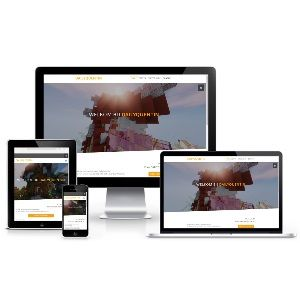
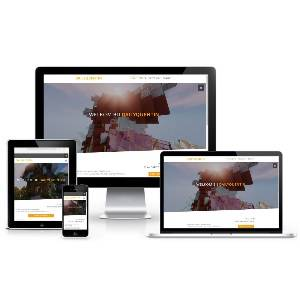
create github pages

diff --git a/index.html b/index.html
@@ -24,7 +24,7 @@
   
 </head>
 <body>
-<section class="menu cid-qzXxz988dB" once="menu" id="menu1-1" data-rv-view="52">
+<section class="menu cid-qzXxz988dB" once="menu" id="menu1-1" data-rv-view="26">
 
     
 
@@ -60,20 +60,20 @@
     </nav>
 </section>
 
-<section class="engine"><a href="https://mobirise.co/o">bootstrap buttons</a></section><section class="header1 cid-qzXxSGDLv6 mbr-parallax-background" id="header1-2" data-rv-view="54">
+<section class="engine"><a href="https://mobirise.co/q">bootstrap slideshow</a></section><section class="header1 cid-qzXxSGDLv6 mbr-parallax-background" id="header1-2" data-rv-view="28">
 
     
 
-    
+    <div class="mbr-overlay" style="opacity: 0.1; background-color: rgb(0, 0, 0);">
+    </div>
 
     <div class="container">
         <div class="row justify-content-md-center">
             <div class="mbr-white col-md-10">
                 
                 <h3 class="mbr-section-subtitle align-center mbr-light pb-3 mbr-fonts-style display-2">
-                    <br><strong>Website laten maken?</strong></h3>
-                <p class="mbr-text align-center pb-3 mbr-fonts-style display-5">
-                    Voor een lage prijs de beste websites en mooiste designs
+                    <br><strong>Website laten maken?</strong><br></h3>
+                <p class="mbr-text align-center pb-3 mbr-fonts-style display-5">Voor een lage prijs de beste websites en mooiste designs
                 </p>
                 
             </div>
@@ -82,7 +82,7 @@
 
 </section>
 
-<section class="features6 cid-qzXzWFSnQD" id="features6-6" data-rv-view="57">
+<section class="features6 cid-qzXzWFSnQD" id="features6-6" data-rv-view="31">
     
     
 
@@ -134,7 +134,7 @@
 
 </section>
 
-<section class="progress-bars3 cid-qzXC435ATP mbr-parallax-background" id="progress-bars3-7" data-rv-view="60">
+<section class="progress-bars3 cid-qzXC435ATP mbr-parallax-background" id="progress-bars3-7" data-rv-view="34">
  
      
 
@@ -171,7 +171,7 @@
         </div>
 </div></section>
 
-<section class="testimonials1 cid-qzXDlUaDKS" id="testimonials1-8" data-rv-view="63">
+<section class="testimonials1 cid-qzXDlUaDKS" id="testimonials1-8" data-rv-view="37">
 
     
 
@@ -244,7 +244,7 @@
     </div>   
 </section>
 
-<section class="features15 cid-qzXHOCJWfV" id="features15-c" data-rv-view="66">
+<section class="features15 cid-qA2FhbDjH5" id="features15-17" data-rv-view="40">
 
     
 
@@ -276,7 +276,7 @@
                     </div>
                     <div class="card_back card_cont">
                         <h4 class="card-title py-2 mbr-fonts-style display-5">
-                            Hotel Krimpen</h4>
+                            Hotel krimpen</h4>
                         
                     </div>
                 </div>
@@ -288,7 +288,8 @@
                         <img src="assets/images/vlamings-300x300.jpg" alt="Mobirise" title="" media-simple="true">
                     </div>
                     <div class="card_back card_cont">
-                        <h4 class="card-title py-2 mbr-fonts-style display-5">Vlamings acupunctuur</h4>
+                        <h4 class="card-title py-2 mbr-fonts-style display-5">
+                            Vlamings Acupunctuur</h4>
                         
                     </div>
                 </div> 
@@ -298,7 +299,7 @@
         </div>
 </div></section>
 
-<section class="mbr-section content4 cid-qzXN603ZjA" id="content4-i" data-rv-view="69">
+<section class="mbr-section content4 cid-qzXN603ZjA" id="content4-i" data-rv-view="43">
 
     
 
@@ -314,7 +315,7 @@
     </div>
 </section>
 
-<section class="mbr-section article content3 cid-qzXOtimRfO" id="content3-l" data-rv-view="71">
+<section class="mbr-section article content3 cid-qzXOtimRfO" id="content3-l" data-rv-view="45">
       
      
 
@@ -342,7 +343,7 @@
     </div>
 </section>
 
-<section class="cid-qzXQTTe66U mbr-fullscreen mbr-parallax-background" id="header15-r" data-rv-view="72">
+<section class="cid-qzXQTTe66U mbr-fullscreen mbr-parallax-background" id="header15-r" data-rv-view="46">
 
     
 
@@ -359,7 +360,7 @@
     <div class="form-container">
         <div class="media-container-column" data-form-type="formoid">
             <div data-form-alert="" hidden="" class="align-center">Succesvol verzonden!</div>
[2 lines of base64/hex data omitted]
                 <div data-for="name">
                     <div class="form-group">
                         <input type="text" class="form-control px-3" name="name" data-form-field="Name" placeholder="Uw voor- en achternaam*" required="" id="name-header15-r">
@@ -388,7 +389,7 @@
     
 </section>
 
-<section class="cid-qzXSqObuYe mbr-reveal" id="footer1-t" data-rv-view="75">
+<section class="cid-qzXSqObuYe mbr-reveal" id="footer1-t" data-rv-view="49">
 
     
 

diff --git a/assets/mobirise/css/mbr-additional.css b/assets/mobirise/css/mbr-additional.css
@@ -165,8 +165,8 @@ body {
 }
 .btn-secondary,
 .btn-secondary:active {
-  background-color: #ff3366;
-  border-color: #ff3366;
+  background-color: #e7ff6e;
+  border-color: #e7ff6e;
   color: #ffffff;
 }
 .btn-secondary:hover,
@@ -174,14 +174,14 @@ body {
 .btn-secondary.focus,
 .btn-secondary.active {
   color: #ffffff;
-  background-color: #e50039;
-  border-color: #e50039;
+  background-color: #daff21;
+  border-color: #daff21;
 }
 .btn-secondary.disabled,
 .btn-secondary:disabled {
   color: #ffffff !important;
-  background-color: #e50039 !important;
-  border-color: #e50039 !important;
+  background-color: #daff21 !important;
+  border-color: #daff21 !important;
 }
 .btn-info,
 .btn-info:active {
@@ -329,22 +329,22 @@ body {
 .btn-secondary-outline,
 .btn-secondary-outline:active {
   background: none;
-  border-color: #cc0033;
-  color: #cc0033;
+  border-color: #d6ff08;
+  color: #d6ff08;
 }
 .btn-secondary-outline:hover,
 .btn-secondary-outline:focus,
 .btn-secondary-outline.focus,
 .btn-secondary-outline.active {
   color: #ffffff;
-  background-color: #ff3366;
-  border-color: #ff3366;
+  background-color: #e7ff6e;
+  border-color: #e7ff6e;
 }
 .btn-secondary-outline.disabled,
 .btn-secondary-outline:disabled {
   color: #ffffff !important;
-  background-color: #ff3366 !important;
-  border-color: #ff3366 !important;
+  background-color: #e7ff6e !important;
+  border-color: #e7ff6e !important;
 }
 .btn-info-outline,
 .btn-info-outline:active {
@@ -464,7 +464,7 @@ body {
   color: #149dcc !important;
 }
 .text-secondary {
-  color: #ff3366 !important;
+  color: #e7ff6e !important;
 }
 .text-success {
   color: #f7ed4a !important;
@@ -490,7 +490,7 @@ a.text-primary:focus {
 }
 a.text-secondary:hover,
 a.text-secondary:focus {
-  color: #cc0033 !important;
+  color: #d6ff08 !important;
 }
 a.text-success:hover,
 a.text-success:focus {
@@ -1840,22 +1840,22 @@ body {
     height: auto !important;
   }
 }
-.cid-qzXHOCJWfV {
+.cid-qA2FhbDjH5 {
   padding-top: 90px;
   padding-bottom: 90px;
-  background-color: #efefef;
+  background-color: #f9f9f9;
 }
-.cid-qzXHOCJWfV .mbr-section-subtitle {
+.cid-qA2FhbDjH5 .mbr-section-subtitle {
   color: #767676;
   font-weight: 300;
 }
-.cid-qzXHOCJWfV .media-container-row {
+.cid-qA2FhbDjH5 .media-container-row {
   word-wrap: break-word;
   word-break: break-word;
   align-items: stretch;
   -webkit-align-items: stretch;
 }
-.cid-qzXHOCJWfV .card_cont {
+.cid-qA2FhbDjH5 .card_cont {
   -o-transition: all .5s;
   -ms-transition: all .5s;
   -moz-transition: all .5s;
@@ -1872,25 +1872,25 @@ body {
   text-align: center;
   background-color: #eee;
 }
-.cid-qzXHOCJWfV .card-front {
+.cid-qA2FhbDjH5 .card-front {
   z-index: 2;
   padding: 0;
   width: 100%;
   height: 100%;
   overflow: hidden;
 }
-.cid-qzXHOCJWfV .card-front img {
+.cid-qA2FhbDjH5 .card-front img {
   min-height: 100%;
   min-width: 100%;
   width: auto;
   max-width: 600px;
 }
-.cid-qzXHOCJWfV .card_back {
+.cid-qA2FhbDjH5 .card_back {
   width: 100%;
   height: 100%;
   padding: 30px 30px;
   color: #ffffff;
-  background-color: #55b4d4;
+  background-color: #149dcc;
   z-index: 1;
   margin: 0;
   text-align: center;
@@ -1901,10 +1901,10 @@ body {
   -webkit-transform: rotateY(-180deg);
   transform: rotateY(-180deg);
 }
-.cid-qzXHOCJWfV .card {
+.cid-qA2FhbDjH5 .card {
   min-height: 300px;
 }
-.cid-qzXHOCJWfV .card:hover .card-front {
+.cid-qA2FhbDjH5 .card:hover .card-front {
   z-index: 1;
   -o-transform: rotateY(180deg);
   -ms-transform: rotateY(180deg);
@@ -1912,7 +1912,7 @@ body {
   -webkit-transform: rotateY(180deg);
   transform: rotateY(180deg);
 }
-.cid-qzXHOCJWfV .card:hover .card_back {
+.cid-qA2FhbDjH5 .card:hover .card_back {
   z-index: 2;
   -o-transform: rotateY(0deg);
   -ms-transform: rotateY(0deg);
@@ -1920,10 +1920,10 @@ body {
   -webkit-transform: rotateY(0deg);
   transform: rotateY(0deg);
 }
-.cid-qzXHOCJWfV .builderCard .card_back {
+.cid-qA2FhbDjH5 .builderCard .card_back {
   border-bottom-left-radius: 100px;
 }
-.cid-qzXHOCJWfV .builderCard .card_cont {
+.cid-qA2FhbDjH5 .builderCard .card_cont {
   -o-backface-visibility: hidden;
   -ms-backface-visibility: hidd;
   -moz-backface-visibility: visible;
